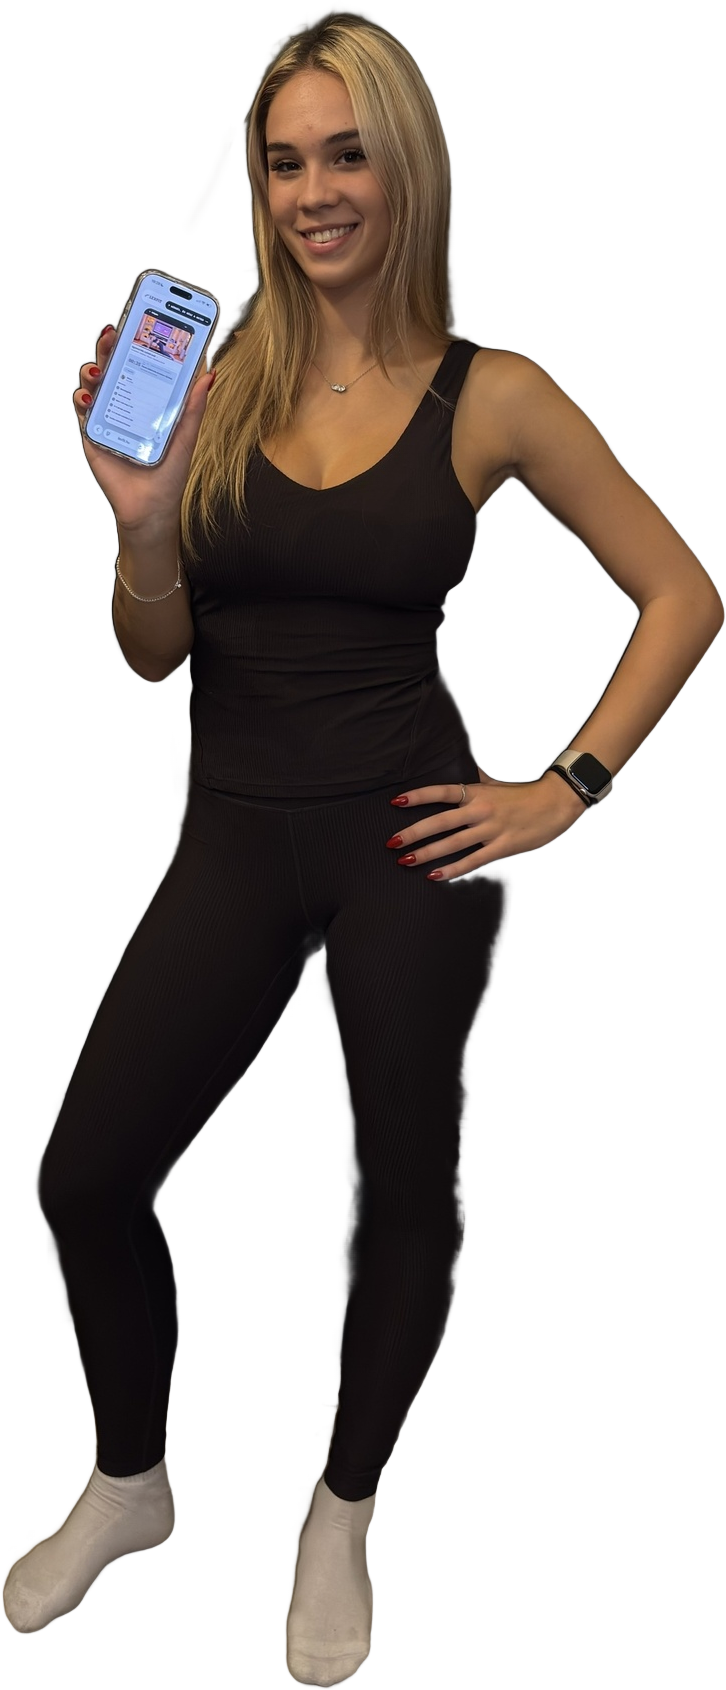
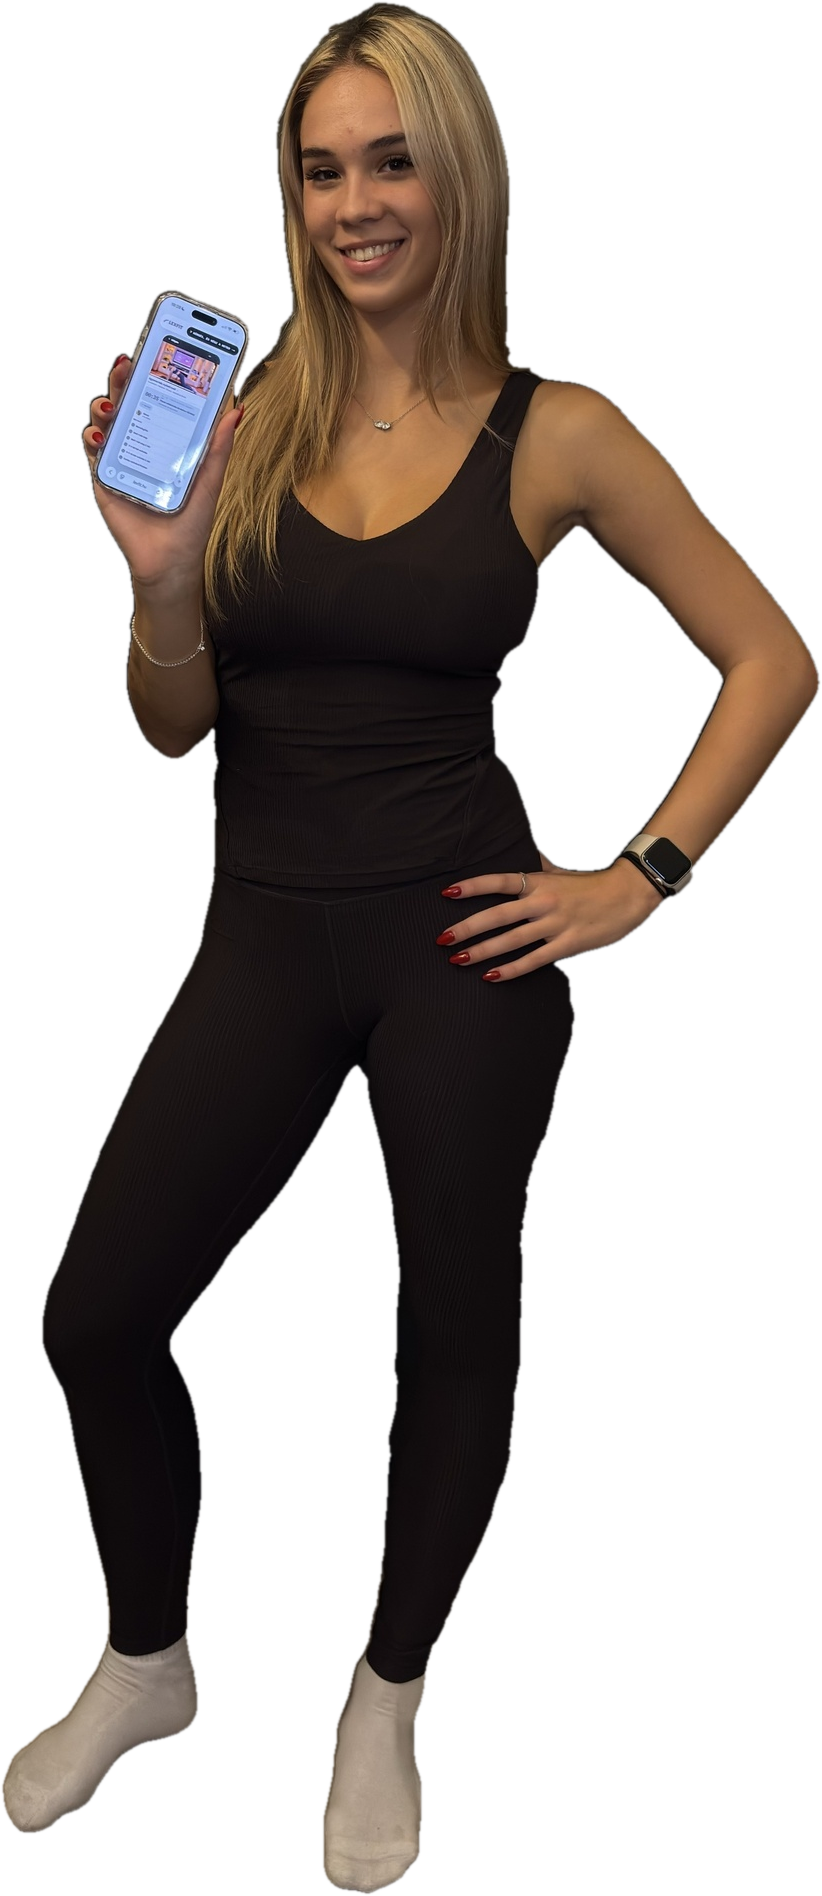
Ship the ad set from a photograph whose edges were actually measured
Three rounds of this creative went out with Alexa's forearm sliced off, and
I kept fixing the symptom. The cause was upstream of every composite: her
elbow reaches x≈4300 in the 4536-wide source, and the crop handed to the
matting model ended at 4120. The fix is to crop to the frame edge and then
measure all four borders of the resulting matte - all read alpha 0, so the
silhouette provably cannot be touching the frame. That check is now the
gate, instead of looking at a thumbnail and hoping.

The clipped bubbles had a different cause than they appeared to: the
generated ground hugged them to the canvas edge, so no export setting could
have saved them. The prompts now carry a hard 6% safe-margin rule and the
export resizes to the exact delivery size rather than fill-cropping.

The phone is a built iPhone mockup now - titanium frame, Dynamic Island,
the real player screen - with the blur cut from 0x26 to 0x2.2. At the old
weight it was an anonymous grey slab, which is a poor way to advertise an
app. The landscape skips it entirely: its headline leaves no room, and she
is already holding a phone.

final/ and final-v2/ are deleted rather than kept for comparison. Both
carry the clipped forearm and final/ also held a corrupt PNG that a killed
render left behind and the runner then skipped because the filename
existed. Leaving a broken creative next to a good one is how the broken one
gets uploaded.

Claude-Session: https://claude.ai/code/session_012YnviB5EQCeVxwAyFf6nJR

diff --git a/docs/ads/program-v1/final-v3/README.md b/docs/ads/program-v1/final-v3/README.md
@@ -1,0 +1,108 @@
+# final-v3 — the shipping set
+
+Twelve creatives: three copy variants × four Meta placements. Destination `/start`,
+optimisation event **Purchase**. This folder supersedes `final/` and `final-v2/`, both of
+which were deleted — see "What was wrong before".
+
+## Files
+
+| Placement | Ratio | Meta minimum | Delivered |
+|---|---|---|---|
+| Feed (FB/IG) vertical | 4:5 | 1080×1350 | `4x5-{a,b,c}.png` — **2160×2700** |
+| Feed square | 1:1 | 1080×1080 | `1x1-{a,b,c}.png` — **2160×2160** |
+| Stories / Reels | 9:16 | 1080×1920 | `9x16-{a,b,c}.png` — **2160×3840** |
+| Right column / Marketplace / landscape feed | 16:9 | 1200×628 | `16x9-{a,b,c}.png` — **2400×1350** |
+
+The landscape is delivered at 16:9, not at Meta's recommended 1.91:1, deliberately. The
+generated ground is 1.792; stretching it to 1.911 distorts the lettering by 6.6%, and
+cropping to it clips the bubbles. Meta accepts 16:9 on these placements and crops it
+itself if it needs to.
+
+## Copy variants
+
+| | Headline | Line above the price |
+|---|---|---|
+| **a** | `8 HÉT,` / `VÉGIG TERVVEL` | `35 EDZÉS` |
+| **b** | `8 HÉT.` / `35 EDZÉS.` | `ÖRÖKRE A TIÉD` |
+| **c** | `EGYSZER FIZETSZ` / `ÖRÖKRE A TIÉD` | `8 HÉT · 35 EDZÉS` |
+
+Shared across all twelve: badge `NINCS HAVIDÍJ`, starburst `14 NAP GARANCIA`, CTA pill
+`MEGNÉZEM A PROGRAMOT`, price `9 990 Ft`, wordmark `LEXFIT`, and the six bubbles.
+
+**Contrast note before you spend:** variant **b** has the darkest bubble text and reads
+best at feed size. In **a** and especially **c** the model rendered the bubble text in
+pale sage, which is legible on a desktop preview and marginal on a phone. If only one
+variant gets budget, start with **b**.
+
+## The six bubbles are from the lead database
+
+Aggregated over the 456 quiz leads that answered (counts only — Q5 is health-adjacent and
+never leaves the aggregate):
+
+| what the leads said | bubble |
+|---|---|
+| 57% living room + 15% small space = 72% train in a room at home | `OTTHON` |
+| product truth — the whole programme is bodyweight | `ESZKÖZ NÉLKÜL` |
+| 31% rarely trained + 28% never = **59% are beginners** | `ALAPOKTÓL` |
+| 50% chose whole-body over any single area | `TELJES TEST` |
+| 40% evening + 35% varies | `ESTE IS` |
+| 37% called themselves restarters — they lack a plan, not willingness | `NEM KELL TERVEZNED` |
+
+The same query argued with the headline: **43% want three days a week and 32% want four**,
+while eight weeks assumes four to five. So for most buyers this runs nine to twelve weeks.
+The ad may lead with eight weeks — it is how Lexfit Start has always been positioned — but
+`/start` states the cadence outright and says that training less often simply takes longer.
+A selftest enforces both halves.
+
+## How these are built
+
+Not one generation each. The trainer is a **real photograph** (`IMG_9032`, supplied
+2026-09-20), background-removed and composited onto a generated, person-free ground. An
+AI-generated likeness was tried and rejected: Alexa is a person the audience recognises,
+and a synthesised face on a paid ad is a claim we cannot make.
+
+```
+assets/alexa-cutout.png        the real trainer, transparent, reusable
+assets/player-screen.png       the real player screenshot
+assets/ground-<ratio>-<v>.png  the twelve generated grounds (4K, no person, no phone)
+assets/compose.sh              the compositor, commented
+```
+
+`compose.sh <ground> <out> <W> <H> <figH> <figX> <figBot> <phoneH> <phoneX> <phoneBot>`
+— heights and offsets are fractions of the canvas, and everything is positioned from the
+**bottom** because the constraint that matters is clearance above the CTA pill. Passing
+`phoneH` of `0` skips the mockup; the landscape uses that, because its headline leaves no
+room and she is already holding a phone.
+
+Re-cutting for a new size needs no regeneration: generate one ground, run the script.
+
+## What was wrong before (so it is not repeated)
+
+1. **Alexa's forearm was clipped** in `final/` and `final-v2/`. Her elbow reaches x≈4300 in
+   the 4536-wide source; the crop fed to the matting model ended at 4120. Fixed by cropping
+   to the frame edge, then **measuring all four borders of the matte** — all read alpha 0,
+   so the silhouette cannot be touching the frame.
+2. **Bubbles were cut off at the canvas edges.** That came from the generated ground, not
+   from the export — the model hugged the bubbles to the edge. The prompts now carry a
+   hard 6% safe-margin rule, and the export resizes to the exact delivery size instead of
+   fill-cropping.
+3. **Her feet were cut** at the bottom edge — she was anchored to it. She now ends above
+   the CTA pill.
+4. **The phone was an unrecognisable grey blur.** It is now a built iPhone mockup — dark
+   titanium frame, Dynamic Island, rounded screen — carrying the real player screen, with
+   the blur cut from 0x26 to 0x2.2.
+5. **A corrupt PNG** sat in `final/`: a killed render left a partial file, and the runner
+   skipped it because a file of that name existed. The runner no longer skips.
+6. The first "leave the right third empty" prompt produced a poster split into two panels
+   with a hard seam. "One single continuous background, the centre column simply has
+   nothing placed on it" fixed it.
+7. Cloning background over an already-generated figure is not viable — the patch clipped
+   the headline. Generate the ground without the figure instead.
+
+## Before any spend
+
+- `/start` is **not deployed** — the commits are local and `www.lexfit.hu/start` returns 404.
+- The Stripe price exists in **test mode only**; run `npm run seed:stripe` with the live key.
+- Map `lx_program_purchase` to Purchase in GTM. An ad set optimising for a conversion that
+  never arrives spends its whole learning budget on nothing — which is exactly what
+  happened with Lead.

diff --git a/docs/ads/static-ads-v1-brief.md b/docs/ads/static-ads-v1-brief.md
@@ -1,0 +1,60 @@
+# LEXFIT — Meta static ads v1 (lead magnet /ujrakezdes)
+
+Research-backed brief, 2026-09-09. Model: **nano_banana_pro** (native 4:5, multilingual
+text, 2 cr/gen, edit-based iteration). Master size 4:5 (2k), then 1:1 via image_references.
+QA gate: `image_text_detection` OCR must match every Hungarian string exactly (ő/ű
+double-acute is the known failure mode — none of the chosen display strings contain them).
+
+Method (research consensus): native/low-polish beats brand-poster; the artifact mockup is
+the priority cell ("show the actual thing you get" — Noom/web2app pattern); typographic is
+the volume/iteration engine; the no-people interior is the 20% differentiation cell.
+Policy shape-check passed: no second-person attribute claims, no body imagery, no urgency.
+Keeping weight-loss vocabulary off the ad AND the landing domain also lowers the odds of
+Meta Tier-2 health categorization (which would kill Lead-event optimization).
+
+## Ad 1 · Typographic (restart angle — matrix A1, utm s1_h1p2v2)
+- Image: flat card, deep green-charcoal #18201d ground, off-white #f1f6f4 headline, sage
+  #7a9b8d support line + pill. Almost un-designed, plain statement.
+- On-image: „Azoknak, akik már többször újrakezdték." · „7 kérdés, és kész a heti terved
+  — ingyen" · pill: „Kérem a tervem" · wordmark LEXFIT
+- Primary text: P2 (restart mechanism) + calorie soft line + closer (below).
+- Headline field: H1. CTA: Több információ.
+
+## Ad 2 · Plan artifact (demo/free angle — matrix A8, utm s8_h2p4v4)
+- Image: the delivered plan-email drawn as the ad. Soft mint #e1f1ea ground; realistic
+  minimal email card (sender Alexa, subject „A heti terved" — the real D0 subject), inside:
+  „A heted, készen.", week row H K Sze Cs P Szo V with H/Sze/P filled #18201d, stats
+  „3 nap · 30 perc · 0 eszköz", small line „+ napi kalória-cél, ha kéred".
+- Above card: „7 kérdés, és kész a heti edzésterved" · chip „ingyenes".
+- Primary text: P4 (demo) + calorie soft line + closer.
+- Headline field: H2. CTA: Több információ.
+
+## Ad 3 · Lifestyle interior (napvégi angle — matrix A7, utm s7_h5p3v5)
+- Image: warm evening living room, unrolled mat, lamp light, uninhabited. Text over:
+  „A nap végén is elég 20 perc" (off-white) · „ingyenes heti terv · 7 kérdés" (sage).
+- Primary text: P3 (napvégi) + calorie soft line + closer.
+- Headline field: H5. CTA: Több információ.
+
+## Shared copy blocks
+- Calorie soft line (all primary texts, ONLY if ENERGY module is live in prod at launch):
+  „Ha kéred, a terved mellé napi kalória-célt is számolunk — ez is ingyenes."
+- Closer (all primary texts): „7 kérdés, és kész a heti terved. Ingyen. — Szeptemberi Újrakezdés"
+- P2/P3/P4 verbatim from funnel_v2 §2.2 (no number migrations needed — they carry none).
+
+## Generated set (2026-09-09, via Higgsfield MCP, nano_banana_pro)
+Finals in `docs/ads/static-v1/` — all six passed the OCR/diacritics gate on eyes-on review.
+The Ad 2 artifact was generated WITHOUT the „+ napi kalória-cél" line (ENERGY flags OFF at
+generation time); add it back with a single reference-edit if the Art. 9 amendment lands.
+- Ad 1 4:5 `ad1-typographic-4x5.png` (job 13d0842b) — v1 misspelled „többzör" + stray quotes; fixed in one edit.
+- Ad 2 4:5 `ad2-artifact-4x5.png` (job e8a68fc6) — v1 had a stray leading „ before the headline; fixed in one edit.
+- Ad 3 4:5 `ad3-napvegi-4x5.png` (job 29c63d30) — clean on first generation.
+- 1:1 versions (jobs 3e651e82 / c5dc4bb7 / 723eedb6) — Ad 1's square needed two retries
+  (smeared „újrakezdték", then a garbled wordmark); Ads 2–3 recomposed clean first try.
+Iteration lesson recorded: never put Hungarian „" quote delimiters around display strings
+inside prompts — the model paints them into the art.
+
+## Launch dependencies
+- UJRAKEZDES_ENABLED=true in Vercel Production.
+- Calorie line requires the Art. 9 amendment published + ENERGY flags on; otherwise strip
+  the calorie sentence and the artifact's „+ napi kalória-cél" line (ads stay valid without).
+- Higgsfield account: trial state blocks CLI generation (only_mcp_usage_on_trial_is_available).

diff --git a/docs/ads/program-purchase-v1-brief.md b/docs/ads/program-purchase-v1-brief.md
@@ -136,7 +136,21 @@ them to ViewContent / InitiateCheckout / **Purchase**. Map `lx_program_purchase`
 before spending anything — an ad set optimising for a conversion that never arrives spends
 its whole learning budget on nothing, which is exactly what happened with Lead.
 
-## Generated set (2026-09-20, Higgsfield MCP, nano_banana_pro)
+## Generated set
+
+**The shipping set is `final-v3/` — see its README for the full spec, the build recipe and
+the list of defects that were fixed.** Twelve creatives: three copy variants across 4:5,
+1:1, 9:16 and 16:9, all 2160px or larger. The trainer in them is a real photograph, not a
+generated likeness.
+
+Two standalone creatives sit alongside it, from the first exploration:
+- `ad2-price-4x5.png` — the price anchor (`285 Ft / EGY EDZÉS ÁRA`), typographic, no people.
+  Runs as-is.
+- `ad4-ferfi-4x5.png` — native cell, male subject, not a likeness of anyone real. Runs
+  as-is, and it is the only cell speaking to the half of the audience the positioning has
+  covered since Aug 2026.
+
+### Earlier exploration (2026-09-20, Higgsfield MCP, nano_banana_pro)
 
 All Hungarian display strings passed the OCR gate on eyes-on review. Every string was
 chosen to avoid the double acute (ő/ű), the known garbling mode — which is why the badge
